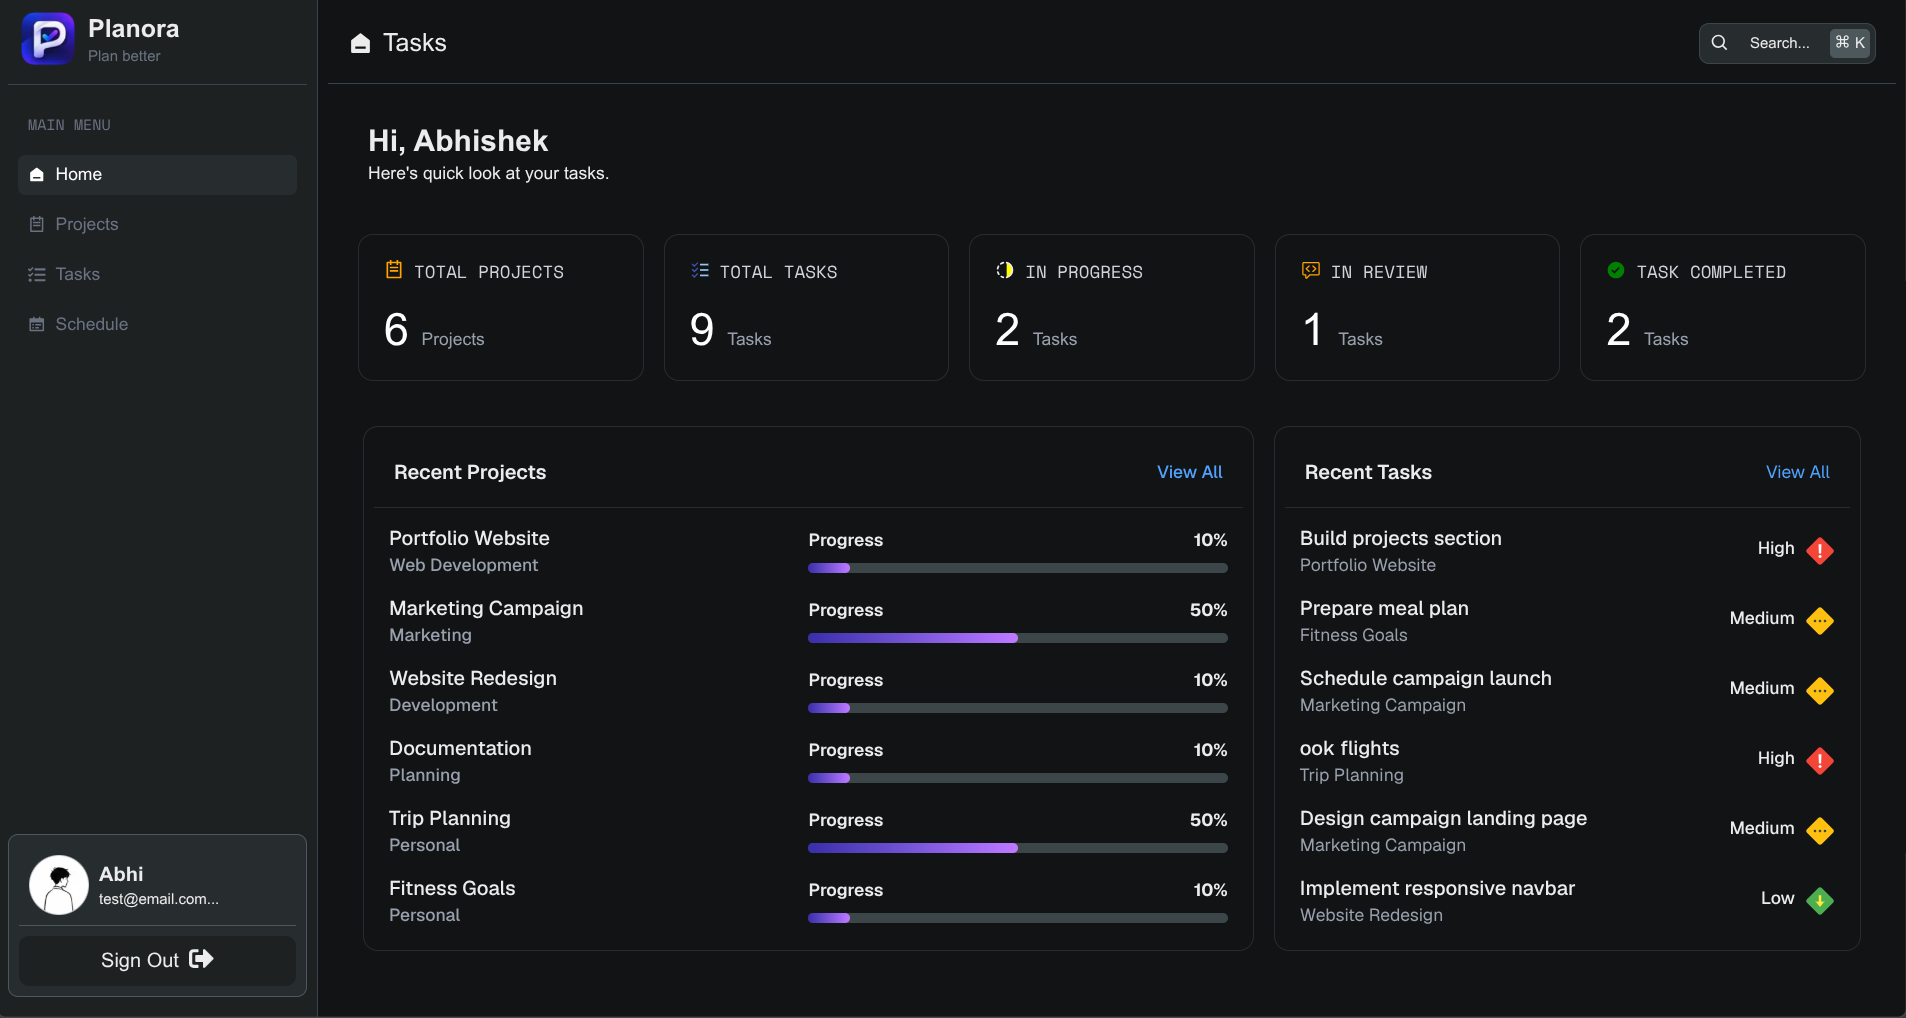
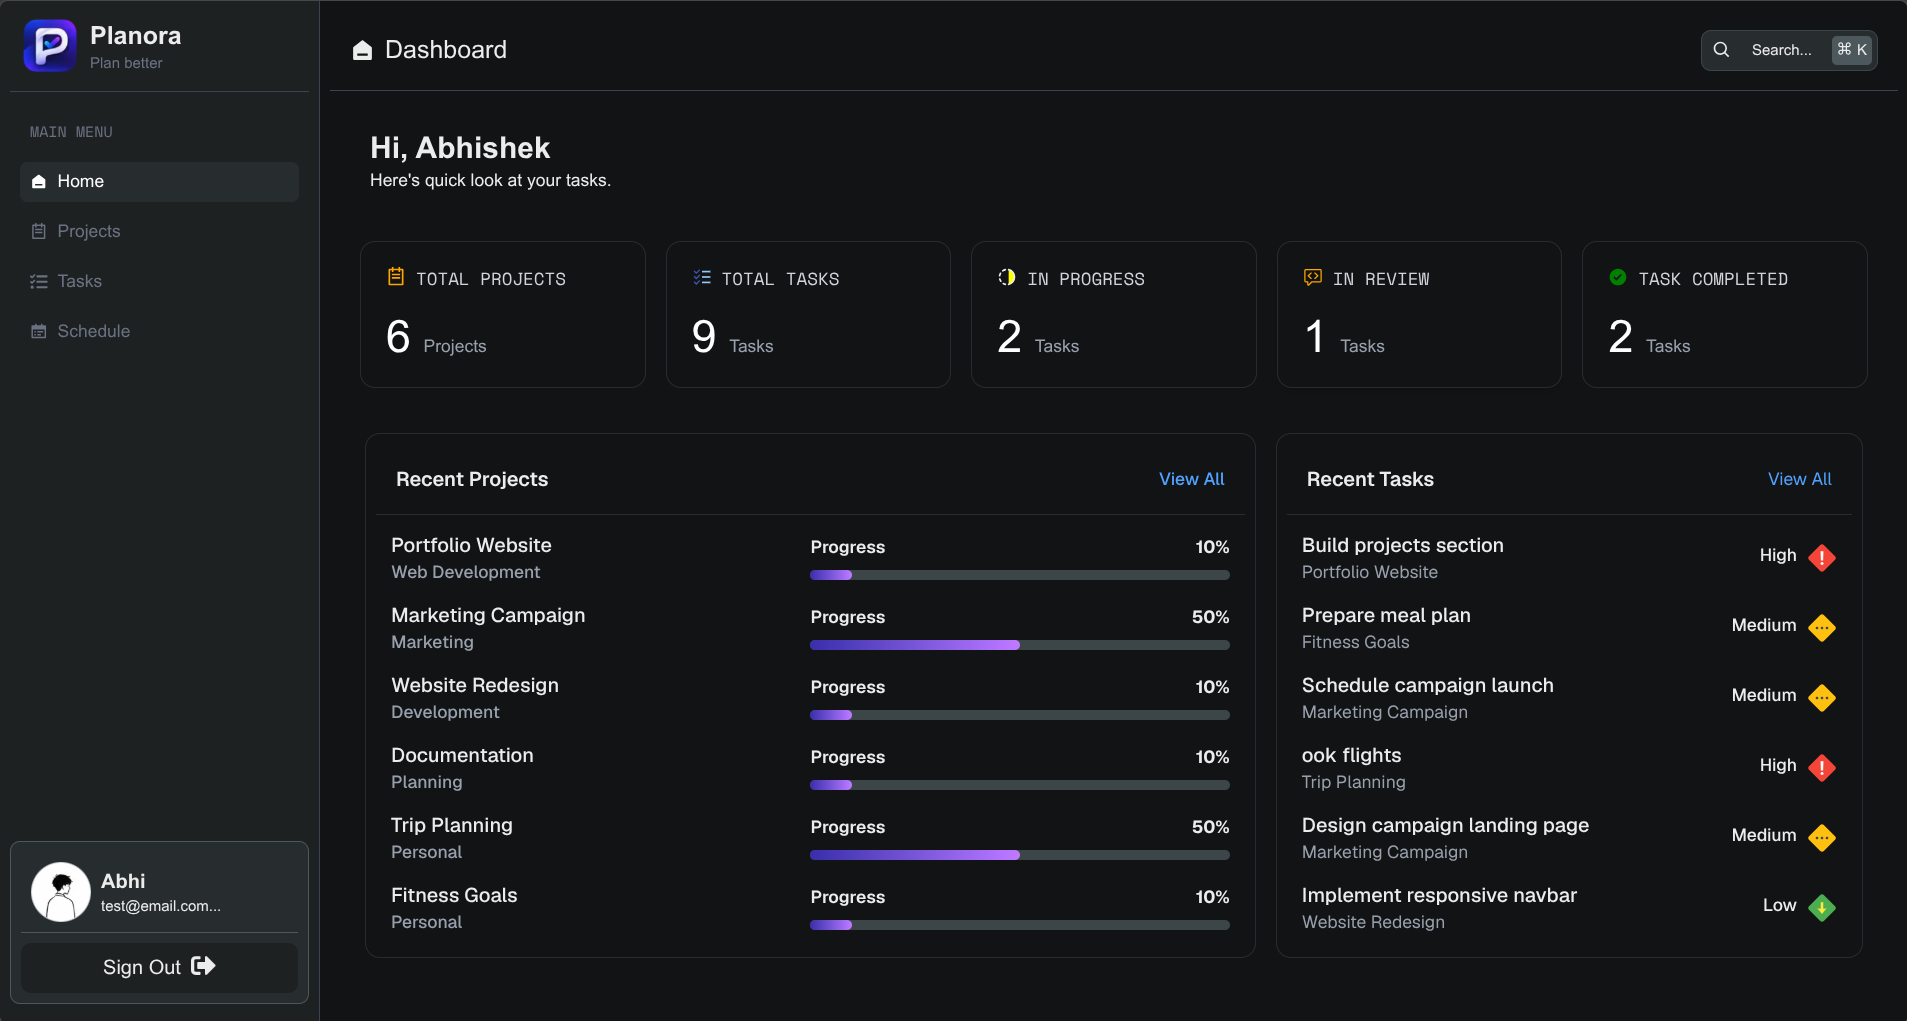
fixed landing page ui issues and add searchbox data

diff --git a/app/ui/searchbox.tsx b/app/ui/searchbox.tsx
@@ -1,8 +1,16 @@
 "use client";
 import { Modal } from "../components/modal/Modal";
 import { FaMagnifyingGlass } from "react-icons/fa6";
-import { useRef } from "react";
+import { useEffect, useRef } from "react";
 import useClickOutside from "../components/modal/useClickOutside";
+import { geistSans, spaceMono } from "@/lib/fonts";
+
+import { getProjectData } from "@/lib/actions/actions";
+import { getTaskData } from "@/lib/actions/actions";
+import { useState } from "react";
+import { ProjectType, TaskType } from "@/lib/types/types";
+
+import { useRouter } from "next/navigation";
 
 export const Searchbox = ({
   close,
@@ -11,22 +19,86 @@ export const Searchbox = ({
 }) => {
   const searchboxRef = useRef<HTMLDivElement>(null!);
   useClickOutside(searchboxRef, () => close(false));
+  const [projects, setProjects] = useState<ProjectType[] | null>([]);
+  const [tasks, setTasks] = useState<TaskType[] | null>([]);
+  const [searchData, setSearchData] = useState<string[]>([]);
+
+  const router = useRouter();
+  useEffect(() => {
+    const fetchProjects = async () => {
+      const projectData = await getProjectData();
+      const data = projectData.map((project) => project.project_name);
+      setSearchData((prev) => [...new Set([...prev, ...data])]);
+      setProjects(projectData);
+    };
+    const fetchTasks = async () => {
+      const taskData = await getTaskData();
+      const data = taskData.map((task) => task.task_name);
+      setSearchData((prev) => [...new Set([...prev, ...data])]);
+
+      setTasks(taskData);
+    };
+
+    fetchProjects();
+
+    fetchTasks();
+  }, []);
+  console.log(searchData);
+
+  const taskRoute = async () => {
+    router.push("/dashboard/tasks");
+  };
+  const projectRoute = async () => {
+    router.push("/dashboard/projects");
+  };
+
   return (
     <Modal>
       <div
-        className=" dark:bg-mist-900 bg-mist-100 dark:brightness-140 p-[6px] gap-2 h-120 flex justify-center flex-col  w-150  rounded-[20px]   border border-mist-400 dark:border-mist-600 "
+        className=" dark:bg-mist-900  bg-mist-100 dark:brightness-140 p-1 gap-2 h-100 flex justify-center flex-col  w-120  rounded-[20px]   border border-mist-400 dark:border-mist-600 "
         ref={searchboxRef}
       >
-        <div className=" h-10 flex items-center justify-left px-5  gap-2 ">
+        <div className=" h-8 flex items-center justify-left px-5  gap-2 ">
           <FaMagnifyingGlass fill="gray" />
           <input
             type="text"
-            className="w-full  focus:outline-none"
+            className="w-full  focus:outline-none text-sm"
             placeholder="Search here..."
           />
         </div>
-        <div className="h-full w-full bg-white outline-mist-300 dark:bg-mist-950 rounded-2xl dark:outline-mist-600 outline"></div>
-        <div className="h-10"></div>
+        <div className="h-full w-full bg-white outline-mist-300 dark:bg-mist-950 rounded-2xl dark:outline-mist-600 outline p-2 overflow-y-scroll scrollbar-none">
+          <div className="p-2">
+            <p className={`${spaceMono.className} font-bold py-1 text-sm`}>
+              Projects
+            </p>
+            <ul className="space-y-1  rounded-xl  p-2 ">
+              {projects?.map((project) => (
+                <li
+                  onClick={projectRoute}
+                  key={project.id}
+                  className={`${geistSans.className} text-sm px-[12px] py-[6px] hover:bg-mist-900 rounded cursor-pointer`}
+                >
+                  {project.project_name}
+                </li>
+              ))}
+            </ul>
+            <p className={`${spaceMono.className} font-bold py-1 text-sm`}>
+              Tasks
+            </p>
+            <ul className="space-y-1  rounded-xl  p-2 ">
+              {tasks?.map((task) => (
+                <li
+                  key={task.id}
+                  onClick={taskRoute}
+                  className={`${geistSans.className} text-sm px-[12px] py-[6px] hover:bg-mist-900 rounded cursor-pointer`}
+                >
+                  {task.task_name}
+                </li>
+              ))}
+            </ul>
+          </div>
+        </div>
+        <div className="h-8"></div>
       </div>
     </Modal>
   );

diff --git a/app/ui/home/solution.tsx b/app/ui/home/solution.tsx
@@ -2,7 +2,7 @@ import { FaFolder, FaRegCircleCheck } from "react-icons/fa6";
 import { BsListTask } from "react-icons/bs";
 import { GiProgression } from "react-icons/gi";
 
-import { FaArrowRight } from "react-icons/fa6";
+import { FaArrowRight, FaArrowDown } from "react-icons/fa6";
 
 export const Solutions = () => {
   const data = [
@@ -38,15 +38,15 @@ export const Solutions = () => {
           How it works
         </p>
         <div>
-          <p className="text-3xl font-semibold p-2">
+          <p className=" text-2xl sm:text-3xl text-center font-semibold p-2">
             From idea to execution, effortlessly
           </p>
-          <p className="dark:text-mist-400 text-center">
+          <p className="dark:text-mist-400 text-sm sm:text-md text-center">
             Get started with planora in just few simple steps.
           </p>
         </div>
 
-        <div className="grid grid-cols-4  gap-10">
+        <div className="grid sm:grid-cols-2 grid-cols-1 lg:grid-cols-4  gap-10">
           {data.map((val) => (
             <div
               key={val.name}
@@ -54,7 +54,8 @@ export const Solutions = () => {
             >
               <div className="flex items-center justify-between">
                 {val.icon}
-                <FaArrowRight size="24" />
+                <FaArrowRight size="24" className="hidden sm:block" />
+                <FaArrowDown size="24" className="sm:hidden" />
               </div>
 
               <p className="text-xl font-bold ">

diff --git a/app/ui/home/features.tsx b/app/ui/home/features.tsx
@@ -40,16 +40,16 @@ export const Features = () => {
           Features
         </p>
         <div>
-          <p className="text-3xl font-semibold p-2">
+          <p className=" text-2xl sm:text-3xl  font-semibold p-2 text-center">
             Everything You Need, in one place
           </p>
-          <p className="dark:text-mist-400">
+          <p className=" text-sm sm:text-md dark:text-mist-400 text-center">
             Planora gives you the tool to manage your work efficently and stay
             productive.
           </p>
         </div>
 
-        <div className="grid grid-cols-4  gap-4">
+        <div className="grid gird-cols-1 sm:grid-cols-2 lg:grid-cols-4  gap-4">
           {data.map((val) => (
             <div
               key={val.name}

diff --git a/app/ui/home/hero.tsx b/app/ui/home/hero.tsx
@@ -7,10 +7,10 @@ export const Hero = () => {
       id="hero"
       className="min-h-screen max-w-6xl w-98/100 mx-auto  pt-20 flex items-center flex-col"
     >
-      <p className="text-7xl pt-12 text-center max-w-3xl w-98/100">
+      <p className="lgtext-7xl sm:text-6xl text-5xl pt-12 text-center max-w-3xl w-98/100">
         Work flows better when everything clicks
       </p>
-      <p className="text-lg dark:text-mist-400 text-mist-800 text-center p-5 max-w-xl w-98/100">
+      <p className="sm:text-lg text-md dark:text-mist-400 text-mist-800 text-center p-5 max-w-xl w-98/100">
         Planora inspires you to dream higher, react beyond potential, bring team
         members together and celebrate success.
       </p>

diff --git a/app/ui/home/nav-bar.tsx b/app/ui/home/nav-bar.tsx
@@ -8,11 +8,10 @@ export const Nav = () => {
           <a className="text-2xl px-2 font-bold " href="#hero">
             Planora
           </a>
-          <div className="flex items-center justify-center gap-4  ">
+          <div className=" hidden lg:flex items-center justify-center gap-4  ">
             <a href="#features">Features</a>
             <a href="#solutions">Solutions</a>
-            <a href="#resources">Resources</a>
-            <a href="#about">About</a>
+            <a href="#resources">highlights</a>
           </div>
           <div className="flex items-center justify-center gap-4">
             <Link

diff --git a/app/components/modal/Modal.tsx b/app/components/modal/Modal.tsx
@@ -6,7 +6,7 @@ interface ModalProps {
 
 export const Modal: React.FC<ModalProps> = ({ children }) => {
   return (
-    <div className=" top-0 left-0 min-h-screen h-full fixed flex items-center justify-center w-full backdrop-blur-xs bg-mist-950/20">
+    <div className="z-50 top-0 left-0 min-h-screen h-full fixed flex items-center justify-center w-full backdrop-blur-xs bg-mist-950/20">
       {children}
     </div>
   );
